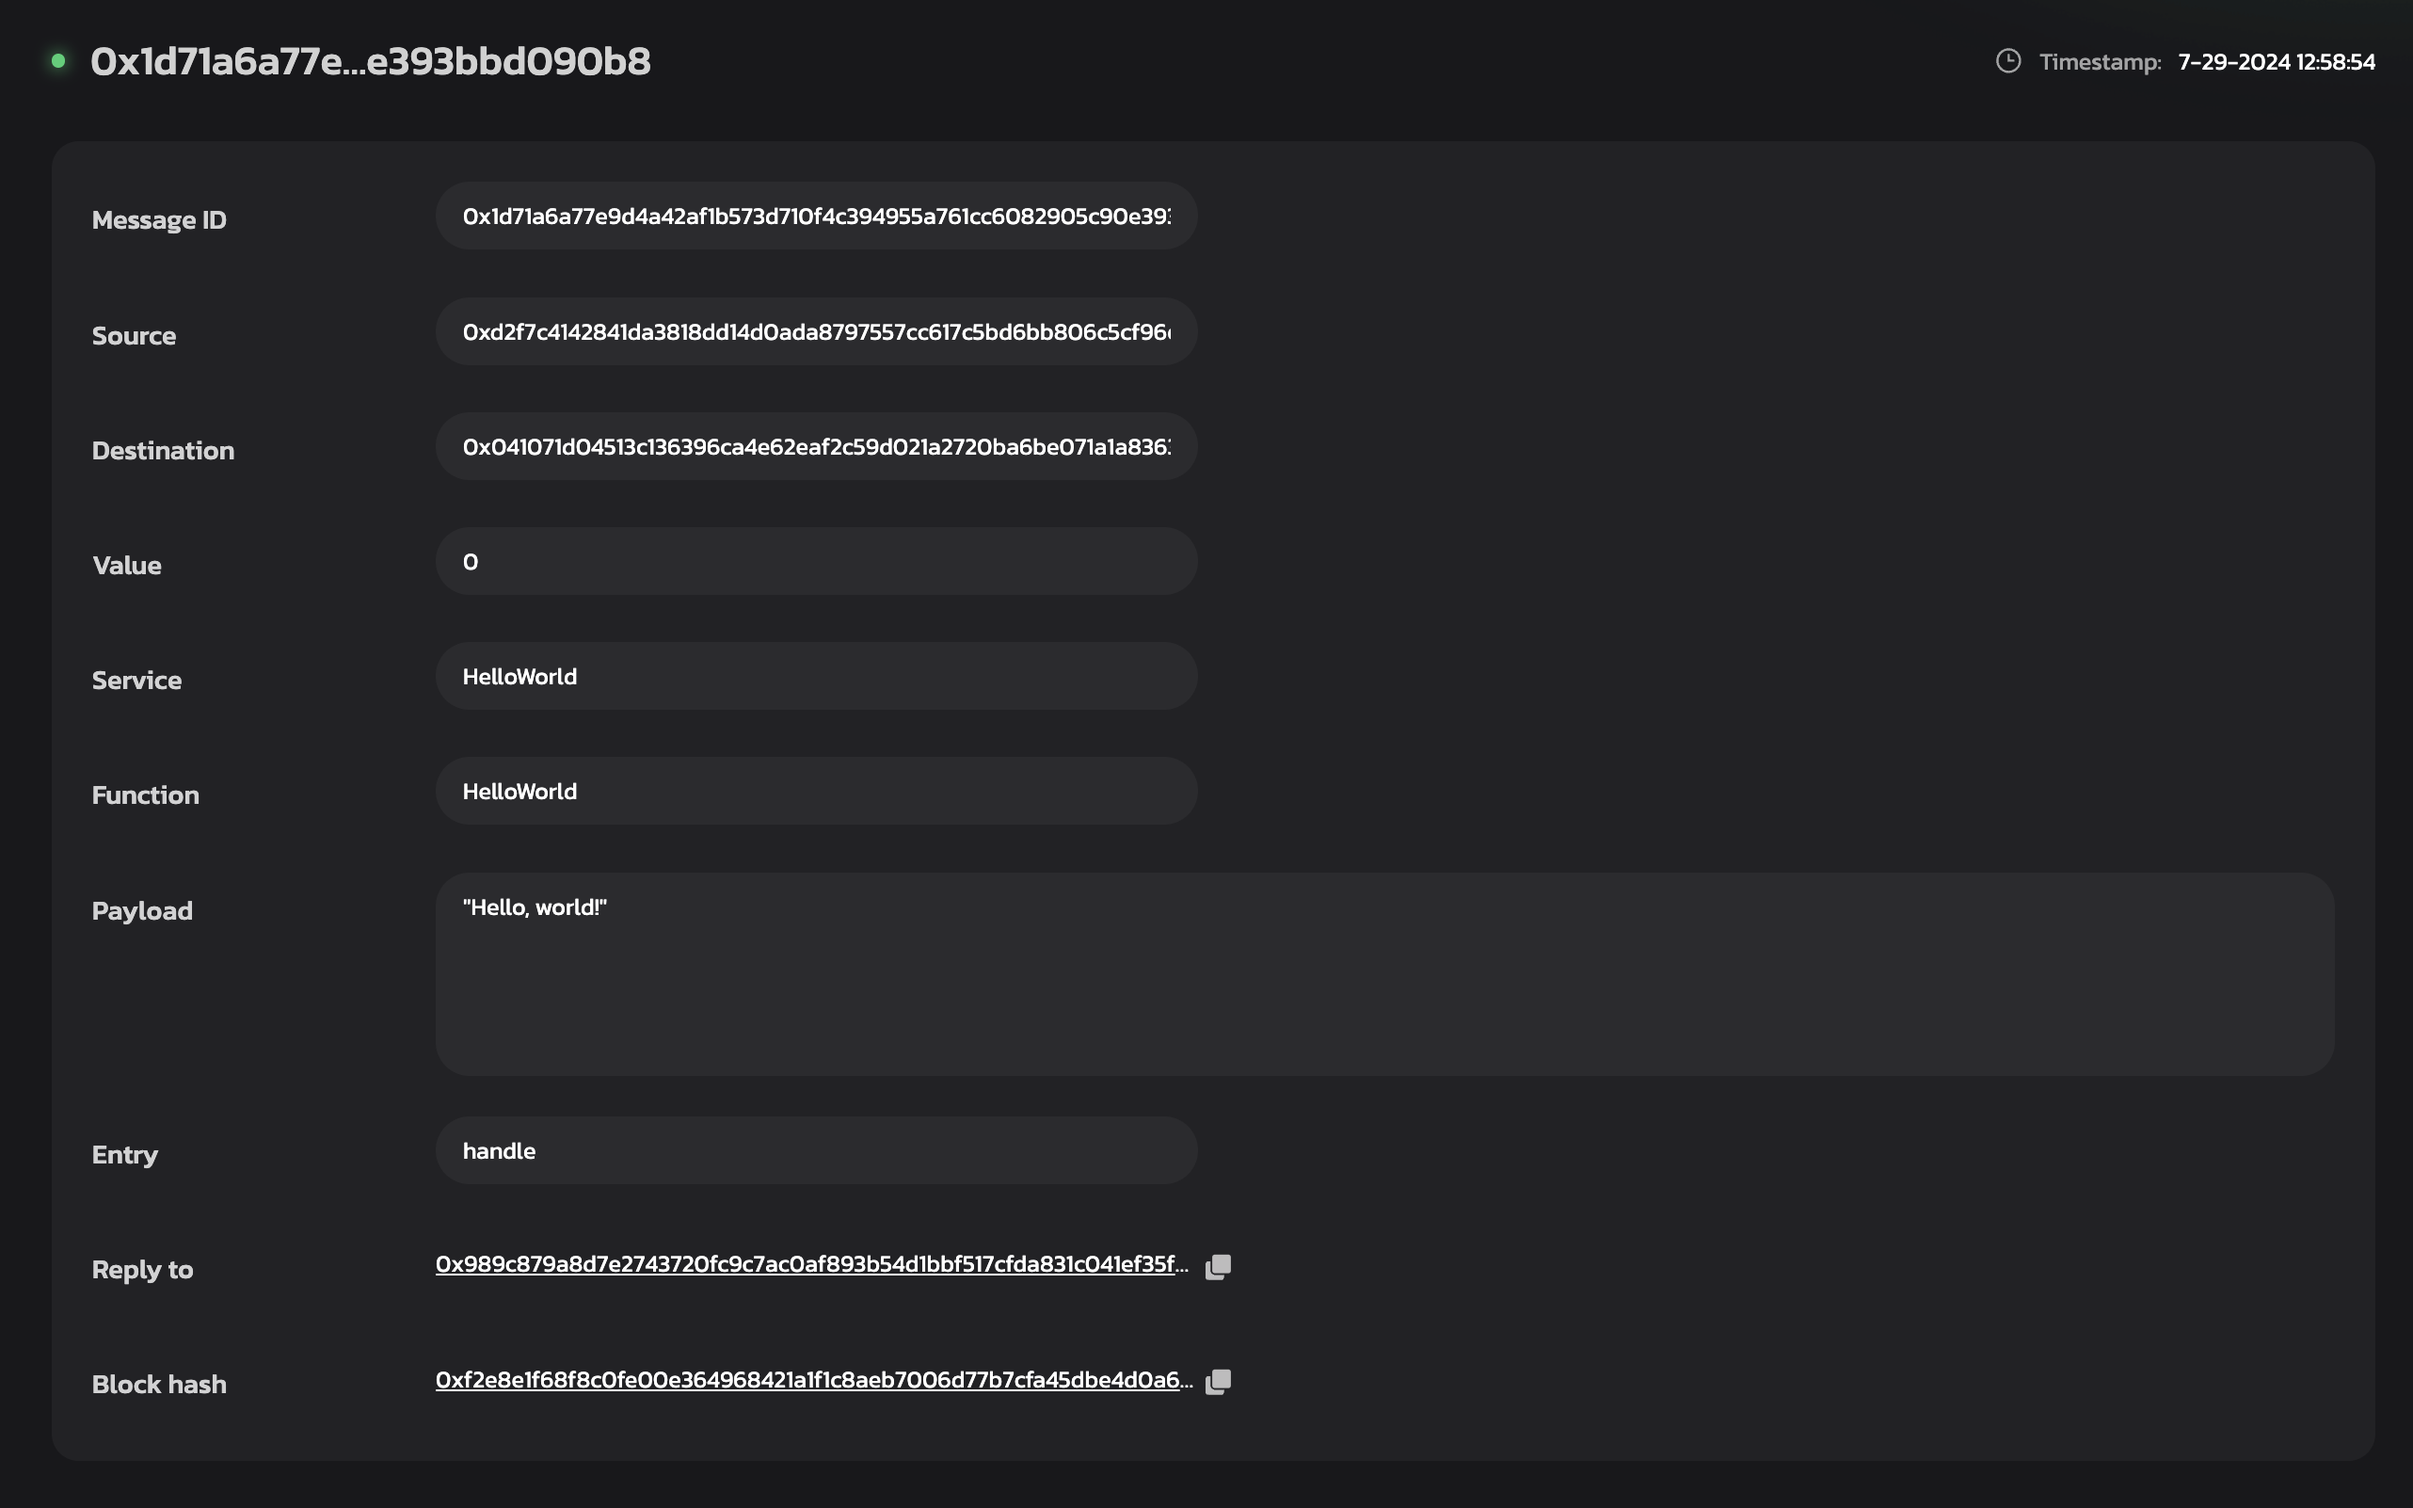
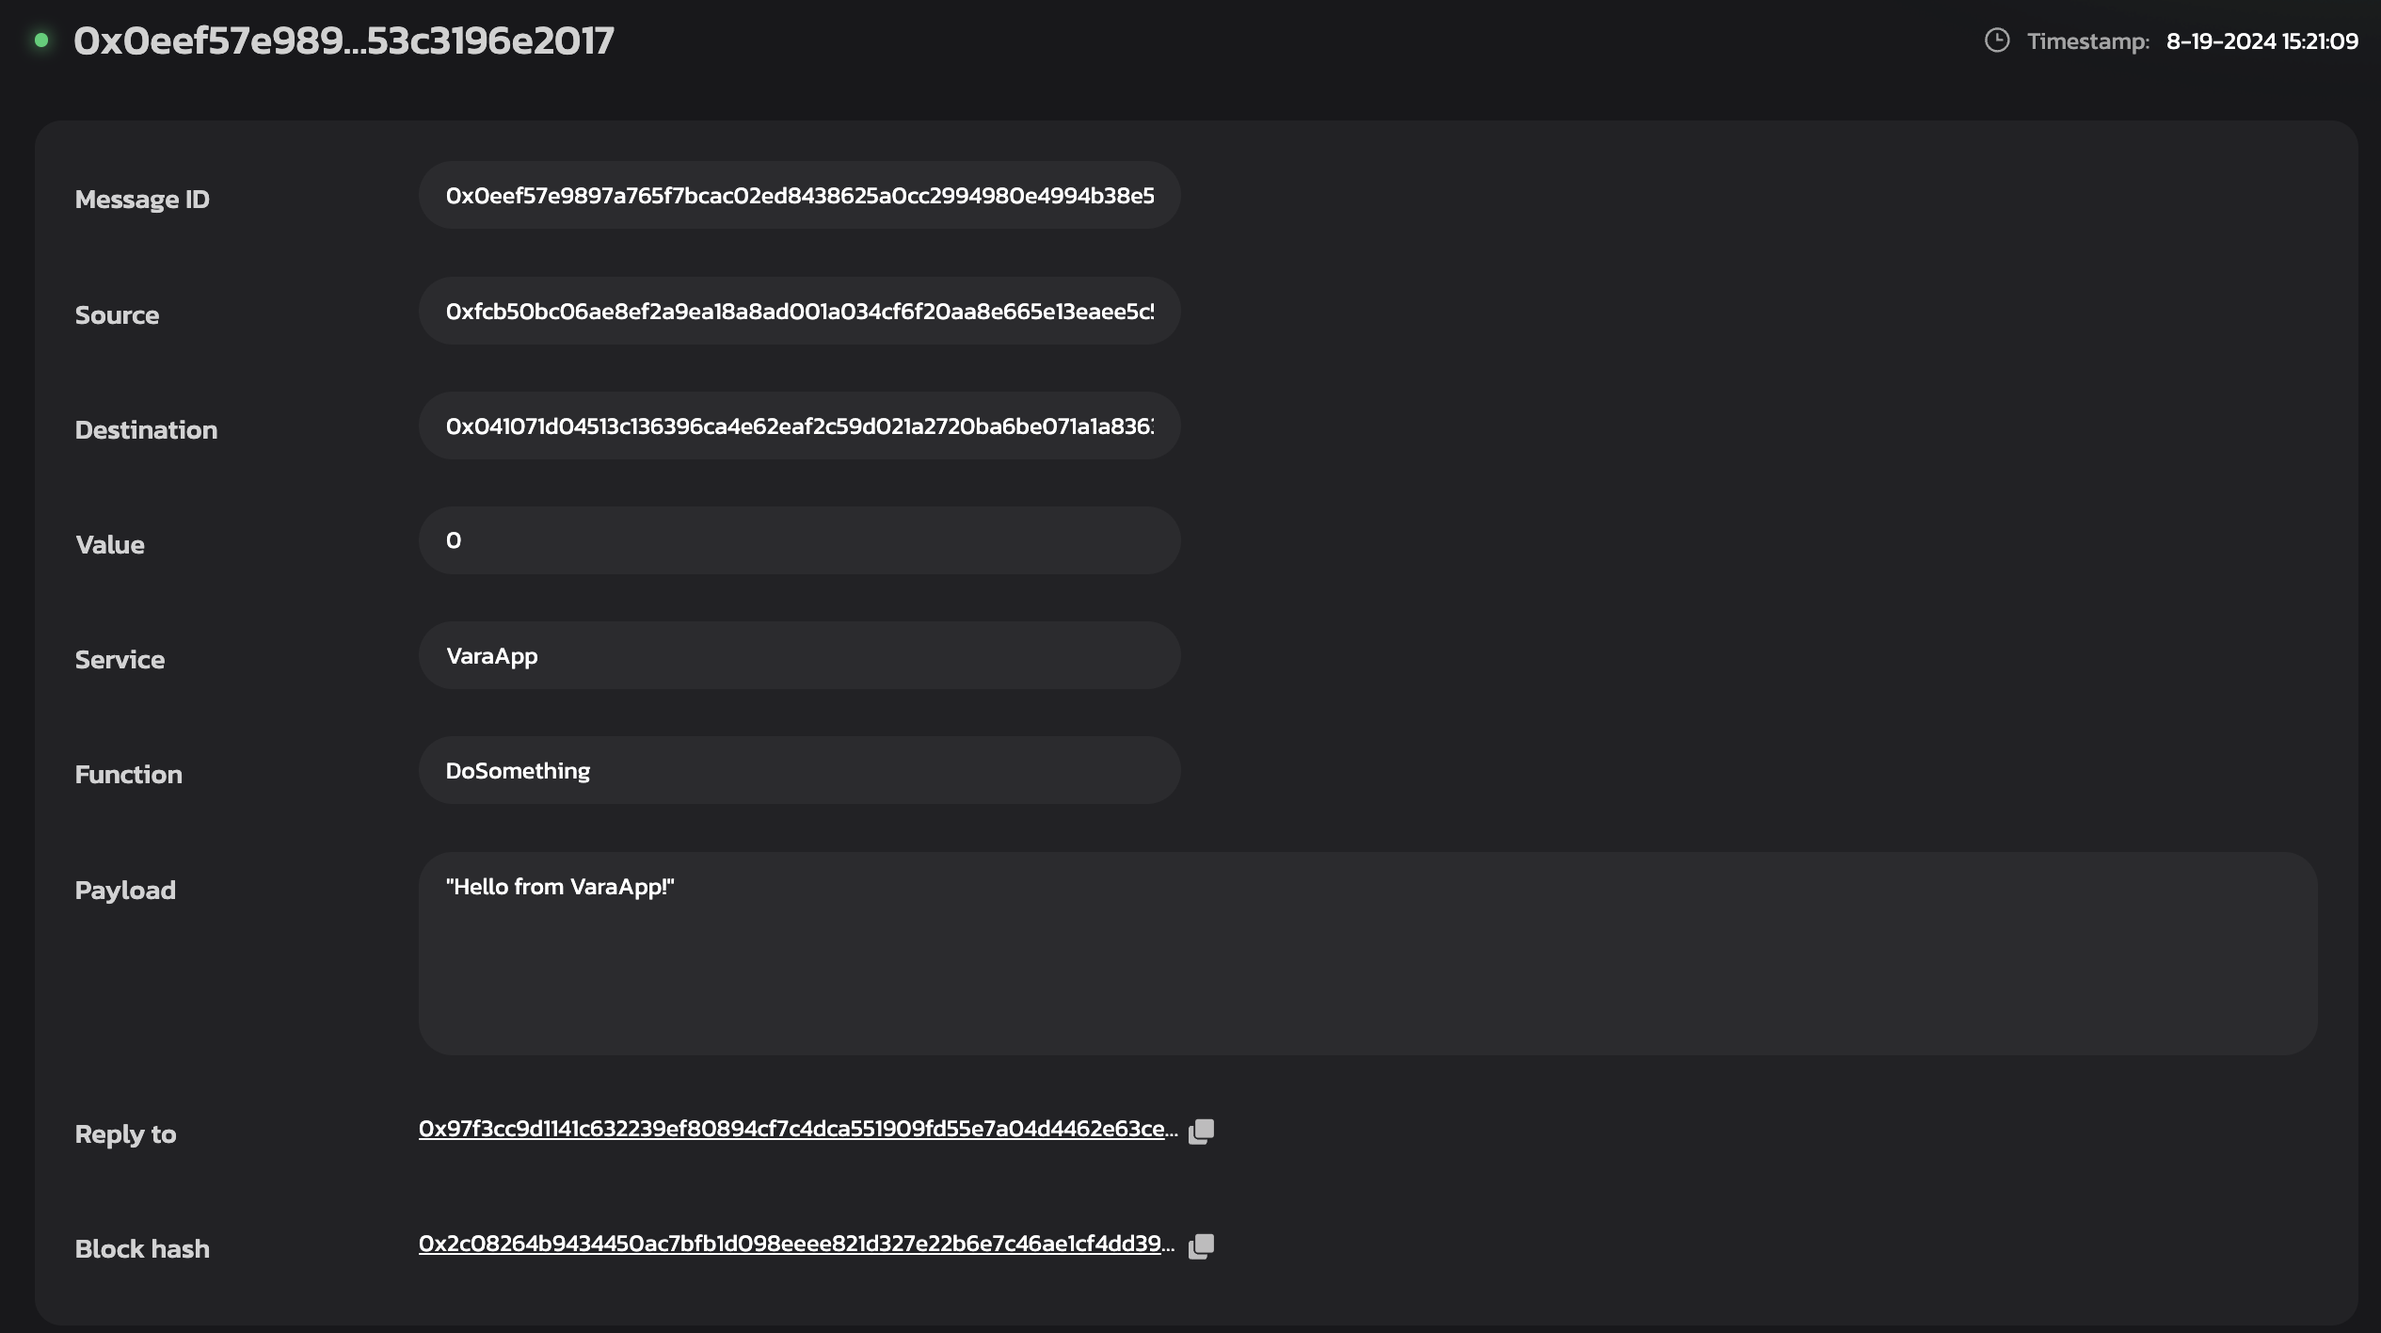
upgrade

diff --git a/docs/getting-started-in-5-minutes.md b/docs/getting-started-in-5-minutes.md
@@ -45,34 +45,33 @@ Don't miss this opportunity to become a pro Vara blockchain developer. Enroll no
 
 ## Creating your first Vara program
 
-To get started, install the `cargo-gbuild` tool using the following command:
+To get started, install the `sails-cli` tool using the following command:
 
     ```bash
-    cargo install cargo-gbuild
+    cargo install sails-cli
     ```
 
-After installation, you can create a new Vara project named `hello_world` by running:
+After installation, you can create a new Vara project named `vara-app` by running:
 
     ```bash
-    cargo-gbuild new hello_world
+    cargo-sails new-program vara-app
     ```
 
-Your `hello_world` directory tree should look like this:
+Your `vara-app` directory tree should look like this:
 
     ```
-    hello_world
+    vara-app
     │
     ├── Cargo.toml
-    ├── app
-    │   ├── Cargo.toml
-    │   └── src
-    │       └── lib.rs
+    ├── build.rs
+    ├── client
+    │   └── ...
     │
-    └── wasm
-        ├── Cargo.toml
-        ├── build.rs
-        └── src
-            └── lib.rs
+    ├── src
+    │   └── lib.rs     
+    │
+    └── tests
+        └── gtest.rs
 
     
     ```
@@ -81,71 +80,75 @@ In `Cargo.toml`, the essential libraries required for building your first projec
 
     ```toml
     [workspace]
-    resolver = "2"
 
-    members = [
-        "app", "wasm",
-    ]
-
-    [workspace.package]
+    [package]
+    name = "vara-app"
     version = "0.1.0"
     edition = "2021"
-    license = "GPL-3.0"
 
-    [workspace.dependencies]
-    gstd = "*"
-    gear-wasm-builder = "*"
-    sails-idl-gen = "*"
-    sails-rs = "*"
+    [dependencies]
+    sails-rs = "0.3.0"
+
+    [build-dependencies]
+    sails-rs = { version = "0.3.0", features = ["wasm-builder"] }
+
+    [dev-dependencies]
+    vara-app = { path = ".", features = ["wasm-binary"] }
+    vara-app-client = { path = "client" }
+    tokio = { version = "1.39", features = ["rt", "macros"] }
+
+    [features]
+    wasm-binary = []
     ```
 
 Let's move on to the main code:
 
-This Rust code defines a simple **Hello, World!** program for the Vara Network. It consists of a `Program` struct with a method to instantiate it and another method to return a `HelloWorld` struct. The `HelloWorld` struct has a service method that returns the string *"Hello, world!"*. This example demonstrates the basic structure and functionality of a Vara program using the `sails_rs` library.
+This Rust code defines a simple program for the Vara Network, now updated with a new structure. The program consists of a `VaraAppProgram` struct with a method to instantiate it and another method to return a `VaraAppService` struct. The `VaraAppService` struct has a service method that returns the string *"Hello from VaraApp!"*. This example demonstrates the basic structure and functionality of a Vara program using the `sails_rs` library.
 
-    ```rust title="hello_world/app/src/lib.rs"
+    ```rust title="vara-app/src/lib.rs"
     #![no_std]
+
+    #[cfg(feature = "wasm-binary")]
+    #[cfg(not(target_arch = "wasm32"))]
+    pub use code::WASM_BINARY_OPT as WASM_BINARY;
+
     use sails_rs::prelude::*;
 
-    #[derive(Default)]
-    pub struct Program;
+    struct VaraAppService(());
 
-    #[program]
-    impl Program {
+    #[sails_rs::service]
+    impl VaraAppService {
         pub fn new() -> Self {
-            Self
+            Self(())
         }
-        pub fn hello_world(&self) -> HelloWorld {
-            HelloWorld::default()
+
+        // Service's method (command)
+        pub fn do_something(&mut self) -> String {
+            "Hello from VaraApp!".to_string()
+        }
+    }
+
+    pub struct VaraAppProgram(());
+
+    #[sails_rs::program]
+    impl VaraAppProgram {
+        // Program's constructor
+        pub fn new() -> Self {
+            Self(())
+        }
+
+        // Exposed service
+        pub fn vara_app(&self) -> VaraAppService {
+            VaraAppService::new()
         }
     }
 
-    #[derive(Default)]
-    pub struct HelloWorld(());
-
-    #[service]
-    impl HelloWorld {
-        pub fn hello_world(&mut self) -> &'static str {
-            "Hello, world!"
-        }
+    #[cfg(feature = "wasm-binary")]
+    #[cfg(not(target_arch = "wasm32"))]
+    mod code {
+        include!(concat!(env!("OUT_DIR"), "/wasm_binary.rs"));
     }
-    ```
 
-The following code is needed to compile the project into WebAssembly and generate an **.idl** file for the program interface. It uses `gear_wasm_builder` to compile the code and the `sails_idl_gen` library to generate the **IDL** file.
-
-    ```rust title="hello_world/wasm/build.rs"
-    use app::Program;
-    use sails_idl_gen::program;
-    use std::{env, path::PathBuf};
-
-    fn main() {
-        gear_wasm_builder::build();
-
-        program::generate_idl_to_file::<Program>(
-            PathBuf::from(env::var("CARGO_MANIFEST_DIR").unwrap()).join("app.idl"),
-        )
-        .unwrap();
-    }
     ```
 
 Build your program with a single command:
@@ -154,32 +157,38 @@ Build your program with a single command:
     cargo build --release
     ```
 
+After a successful build, you can execute your tests to verify that everything is functioning correctly:
+
+    ```bash
+    cargo test --release
+    ```
+
 If everything has been executed successfully, your working directory should now contain a `target` directory structured as follows:
 
     ```
-    hello_world
+    vara-app
     ├── ...
     ├── target
         ├── ...
         └── wasm32-unknown-unknown
             └── release
-                ├── application_builder.wasm       <---- this is our built .wasm file
-                └── application_builder.opt.wasm   <---- this is optimized .wasm file
+                ├── vara_app.wasm       <---- this is our built .wasm file
+                └── vara_app.opt.wasm   <---- this is optimized .wasm file
     ```
 
-- `application_builder.wasm` is the output Wasm binary built from source files
-- `application_builder.opt.wasm` is the optimized Wasm aimed to be uploaded to the blockchain  
+- `vara_app.wasm` is the output Wasm binary built from source files
+- `vara_app.opt.wasm` is the optimized Wasm aimed to be uploaded to the blockchain  
 (Optimization include reducing the file size and improving performance)
 
-In addition, the interface file `app.idl` should have been generated in the `wasm` project directory.
+In addition, the interface file `vara_app.idl` should have been generated in the `client` project directory.
 
-    ```idl title="hello_world/wasm/app.idl"
+    ```idl title="vara-app/client/vara_app.idl"
     constructor {
       New : ();
     };
 
-    service HelloWorld {
-      HelloWorld : () -> str;
+    service VaraApp {
+      DoSomething : () -> str;
     };
     ```
 
@@ -241,7 +250,7 @@ Gear provides an application for developers (Gear Idea) that implements all of t
 
     ![Upload idl button](/assets/getting-started/add_idl.png)
 
-4. Specify the program name, click the <kbd>Calculate Gas</kbd> button to set the gas limit automatically, and then click the <kbd>Upload program</kbd> button.
+4. Specify the program name, click the <kbd>Calculate Gas</kbd> button to set the gas limit automatically, and then click the <kbd>Submit</kbd> button.
 
     ![Upload program form](/assets/getting-started/interface.png)
 
@@ -253,7 +262,7 @@ Gear provides an application for developers (Gear Idea) that implements all of t
 
     ![Recently uploaded programs](/assets/getting-started/recent.png)
 
-7. Click on your program to see more information, such as `Program details`, `IDL`, and the `Messages` pane.
+7. Click on your program to see more information, such as `Metadata/Sails`, `Messages`, `Events`, and the `Vouchers` pane.
 
     ![Main page program](/assets/getting-started/main-page-program.png)
 
@@ -271,15 +280,15 @@ Gear provides an application for developers (Gear Idea) that implements all of t
 
     ![Log](/assets/getting-started/message-log.png)
 
-    You have just sent a HelloWorld command to your program!
+    You have just sent a `DoSomething` command to your program!
 
 5. Go back to your program by either clicking the <kbd>Cancel</kbd> button or using the browser's back button. 
 
-6. In the message pane, you can see the new message request (blue arrow) along with the corresponding response (green arrow).
+6. In the message pane, you can view the corresponding response.
 
     ![Log](/assets/getting-started/messages.png)
 
-7. Click on the message response to see more information. The expected "**Hello, World!**" response can be seen in the `Payload`.
+7. Click on the message response to see more information. The expected "**Hello from VaraApp!**" response can be seen in the `Payload`.
 
     ![Log](/assets/getting-started/reply.png)
 
